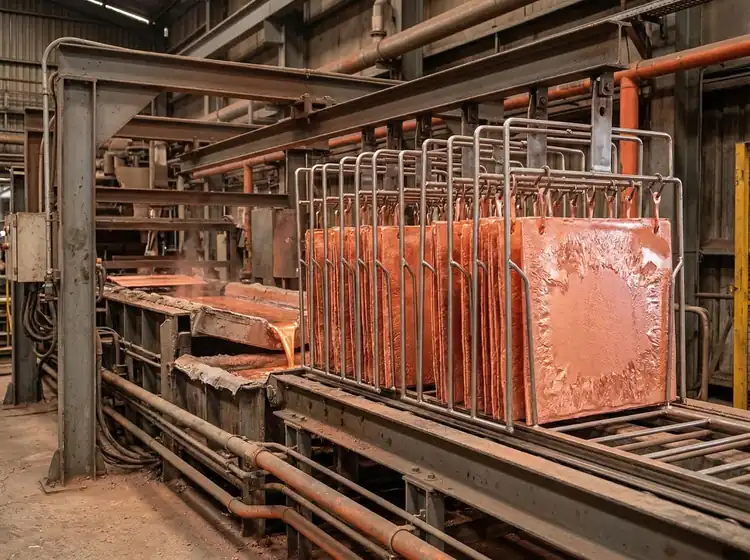
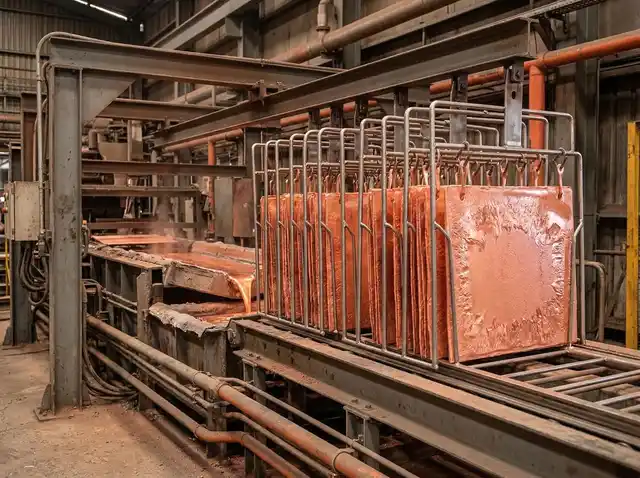
fix: cut LH TBT trap and shrink homepage images
Stop scroll-triggered deferred hydration (Lighthouse auto-scroll), ship display-sized WebP goal cards, and tighten the LCP asset.

diff --git a/scripts/generate-home-display-images.ts b/scripts/generate-home-display-images.ts
@@ -1,0 +1,47 @@
+/**
+ * Generate homepage display-sized WebPs (goal cards + LCP).
+ * Run: npx tsx scripts/generate-home-display-images.ts
+ */
+import fs from "node:fs";
+import path from "node:path";
+import sharp from "sharp";
+
+const DIR = path.join(process.cwd(), "public", "images");
+
+async function card(src: string, out: string) {
+  const absIn = path.join(DIR, src);
+  const absOut = path.join(DIR, out);
+  await sharp(absIn)
+    .rotate()
+    .resize({ width: 760, withoutEnlargement: true })
+    .webp({ quality: 68 })
+    .toFile(absOut);
+  console.log(`${out}  ${Math.round(fs.statSync(absOut).size / 1024)}KB`);
+}
+
+async function lcp() {
+  const copper = path.join(DIR, "everest-copper-industrial-4x3.jpg");
+  const absOut = path.join(DIR, "home-lcp.webp");
+  const src = fs.existsSync(copper) ? copper : absOut;
+  const tmp = `${absOut}.__tmp`;
+  await sharp(src)
+    .rotate()
+    .resize({ width: 640, withoutEnlargement: true })
+    .webp({ quality: 40 })
+    .toFile(tmp);
+  fs.renameSync(tmp, absOut);
+  console.log(`home-lcp.webp  ${Math.round(fs.statSync(absOut).size / 1024)}KB`);
+}
+
+async function main() {
+  await card("everest-suite-hero-16x9.jpg", "home-card-investments.webp");
+  await card("calculators-capital-lifespan-4x3.jpg", "home-card-retirement.webp");
+  await card("risk-arch-commercial.jpg", "home-card-insurance.webp");
+  await card("risk-arch-estate.jpg", "home-card-estate.webp");
+  await lcp();
+}
+
+main().catch((err) => {
+  console.error(err);
+  process.exit(1);
+});

diff --git a/lib/home4-journey.ts b/lib/home4-journey.ts
@@ -54,7 +54,7 @@ export const HOME4_GOAL_CARDS: GoalCard[] = [
       { label: "Understanding Everest", href: "/everest-wealth/about" },
     ],
     accent: "blue",
-    image: "/images/everest-suite-hero-16x9.jpg",
+    image: "/images/home-card-investments.webp",
   },
   {
     id: "retirement",
@@ -69,7 +69,7 @@ export const HOME4_GOAL_CARDS: GoalCard[] = [
       { label: "Retirement planning hub", href: "/retirement-planning" },
     ],
     accent: "teal",
-    image: "/images/calculators-capital-lifespan-4x3.jpg",
+    image: "/images/home-card-retirement.webp",
   },
   {
     id: "insurance",
@@ -84,7 +84,7 @@ export const HOME4_GOAL_CARDS: GoalCard[] = [
       { label: "Average Clause calculator", href: "/calculators/asset-015-average-clause" },
     ],
     accent: "orange",
-    image: "/images/risk-arch-commercial.jpg",
+    image: "/images/home-card-insurance.webp",
   },
   {
     id: "estate",
@@ -99,7 +99,7 @@ export const HOME4_GOAL_CARDS: GoalCard[] = [
       { label: "Estate planning hub", href: "/estate-planning" },
     ],
     accent: "gold",
-    image: "/images/risk-arch-estate.jpg",
+    image: "/images/home-card-estate.webp",
   },
 ];
 

diff --git a/components/MarketingChromeExtras.tsx b/components/MarketingChromeExtras.tsx
@@ -20,19 +20,15 @@ export function MarketingChromeExtras() {
     if (ready) return;
 
     const enable = () => setReady(true);
-    const onInteract = () => enable();
-
-    // Lighthouse SI/TBT windows often span ~5–8s; keep chrome widgets out of that window.
+    // No scroll: LH auto-scroll must not mount WhatsApp / quick-actions mid-audit.
     const t = window.setTimeout(enable, 12_000);
-    window.addEventListener("scroll", onInteract, { once: true, passive: true });
-    window.addEventListener("pointerdown", onInteract, { once: true });
-    window.addEventListener("keydown", onInteract, { once: true });
+    window.addEventListener("pointerdown", enable, { once: true });
+    window.addEventListener("keydown", enable, { once: true });
 
     return () => {
       window.clearTimeout(t);
-      window.removeEventListener("scroll", onInteract);
-      window.removeEventListener("pointerdown", onInteract);
-      window.removeEventListener("keydown", onInteract);
+      window.removeEventListener("pointerdown", enable);
+      window.removeEventListener("keydown", enable);
     };
   }, [ready]);
 

diff --git a/components/analytics/ConsentProvider.tsx b/components/analytics/ConsentProvider.tsx
@@ -51,15 +51,12 @@ export function ConsentProvider({ children }: { children: ReactNode }) {
   useEffect(() => {
     setConsentState(readStoredConsent());
     const showBanner = () => setHasHydrated(true);
-    // Keep consent UI off the Lighthouse SI/TBT window; interaction can still open preferences later.
+    // No scroll: LH auto-scroll must not load cookie/analytics chunks mid-audit.
     const t = window.setTimeout(showBanner, 12_000);
-    const onInteract = () => showBanner();
-    window.addEventListener("scroll", onInteract, { once: true, passive: true });
-    window.addEventListener("pointerdown", onInteract, { once: true });
+    window.addEventListener("pointerdown", showBanner, { once: true });
     return () => {
       window.clearTimeout(t);
-      window.removeEventListener("scroll", onInteract);
-      window.removeEventListener("pointerdown", onInteract);
+      window.removeEventListener("pointerdown", showBanner);
     };
   }, []);
 

diff --git a/components/home4/Home4RestDeferred.tsx b/components/home4/Home4RestDeferred.tsx
@@ -18,15 +18,15 @@ export function Home4RestDeferred() {
   useEffect(() => {
     if (ready) return;
 
+    // No scroll listener: Lighthouse auto-scrolls during SI and would hydrate
+    // heavy below-fold JS into the TBT window. Pointer/keyboard still unlock early.
     const enable = () => setReady(true);
     const t = window.setTimeout(enable, 12_000);
-    window.addEventListener("scroll", enable, { once: true, passive: true });
     window.addEventListener("pointerdown", enable, { once: true });
     window.addEventListener("keydown", enable, { once: true });
 
     return () => {
       window.clearTimeout(t);
-      window.removeEventListener("scroll", enable);
       window.removeEventListener("pointerdown", enable);
       window.removeEventListener("keydown", enable);
     };

diff --git a/components/home4/Home4Blocks.tsx b/components/home4/Home4Blocks.tsx
@@ -75,7 +75,7 @@ export function Home4GoalCard({ card }: { card: GoalCard; priority?: boolean }) 
 
   return (
     <article
-      className={`group flex h-full flex-col overflow-hidden rounded-3xl bg-white/95 shadow-xl ring-1 ring-stone-200/80 backdrop-blur-sm transition-all duration-300 ease-apple hover:-translate-y-2 hover:shadow-2xl ${ACCENT_RING[card.accent]}`}
+      className={`group flex h-full flex-col overflow-hidden rounded-3xl bg-white shadow-xl ring-1 ring-stone-200/80 transition-all duration-300 ease-apple hover:-translate-y-2 hover:shadow-2xl ${ACCENT_RING[card.accent]}`}
     >
       <Link
         href={card.href}

diff --git a/components/DeferredRootExtras.tsx b/components/DeferredRootExtras.tsx
@@ -22,12 +22,11 @@ export function DeferredRootExtras() {
 
   useEffect(() => {
     const enable = () => setReady(true);
+    // No scroll: LH auto-scroll must not pull seo/speculation chunks into TBT.
     const t = window.setTimeout(enable, 12_000);
-    window.addEventListener("scroll", enable, { once: true, passive: true });
     window.addEventListener("pointerdown", enable, { once: true });
     return () => {
       window.clearTimeout(t);
-      window.removeEventListener("scroll", enable);
       window.removeEventListener("pointerdown", enable);
     };
   }, []);

diff --git a/docs/TASK15-LH-MOBILE.md b/docs/TASK15-LH-MOBILE.md
@@ -66,3 +66,15 @@ Fixes:
 - Slim `Providers` magic-link import (hash-only dynamic import)
 
 *(retest on live mobile after deploy)*
+
+### Loop 4 — Perf 89 → chase 100 (images + LH scroll trap)
+Live Loop 3: Perf **89**, FCP 1.2s, LCP 2.1s, TBT **400ms**, CLS 0, SI 2.2s.
+
+Fixes:
+- **Remove `scroll` unlock** from deferred islands (`Home4RestDeferred`, `MarketingChromeExtras`, `DeferredRootExtras`, `ConsentProvider`). Lighthouse auto-scroll was hydrating heavy JS mid-audit.
+- Display-sized WebP goal cards (~760w): `home-card-*.webp` (~29–55KB vs 76–260KB JPGs).
+- Tighter `home-lcp.webp` (~38KB @ 640w).
+- Drop `backdrop-blur` on goal cards (Style & Layout cost).
+- Modern `browserslist` to shrink legacy polyfill pressure in shared chunks.
+
+*(retest on live mobile after deploy)*
